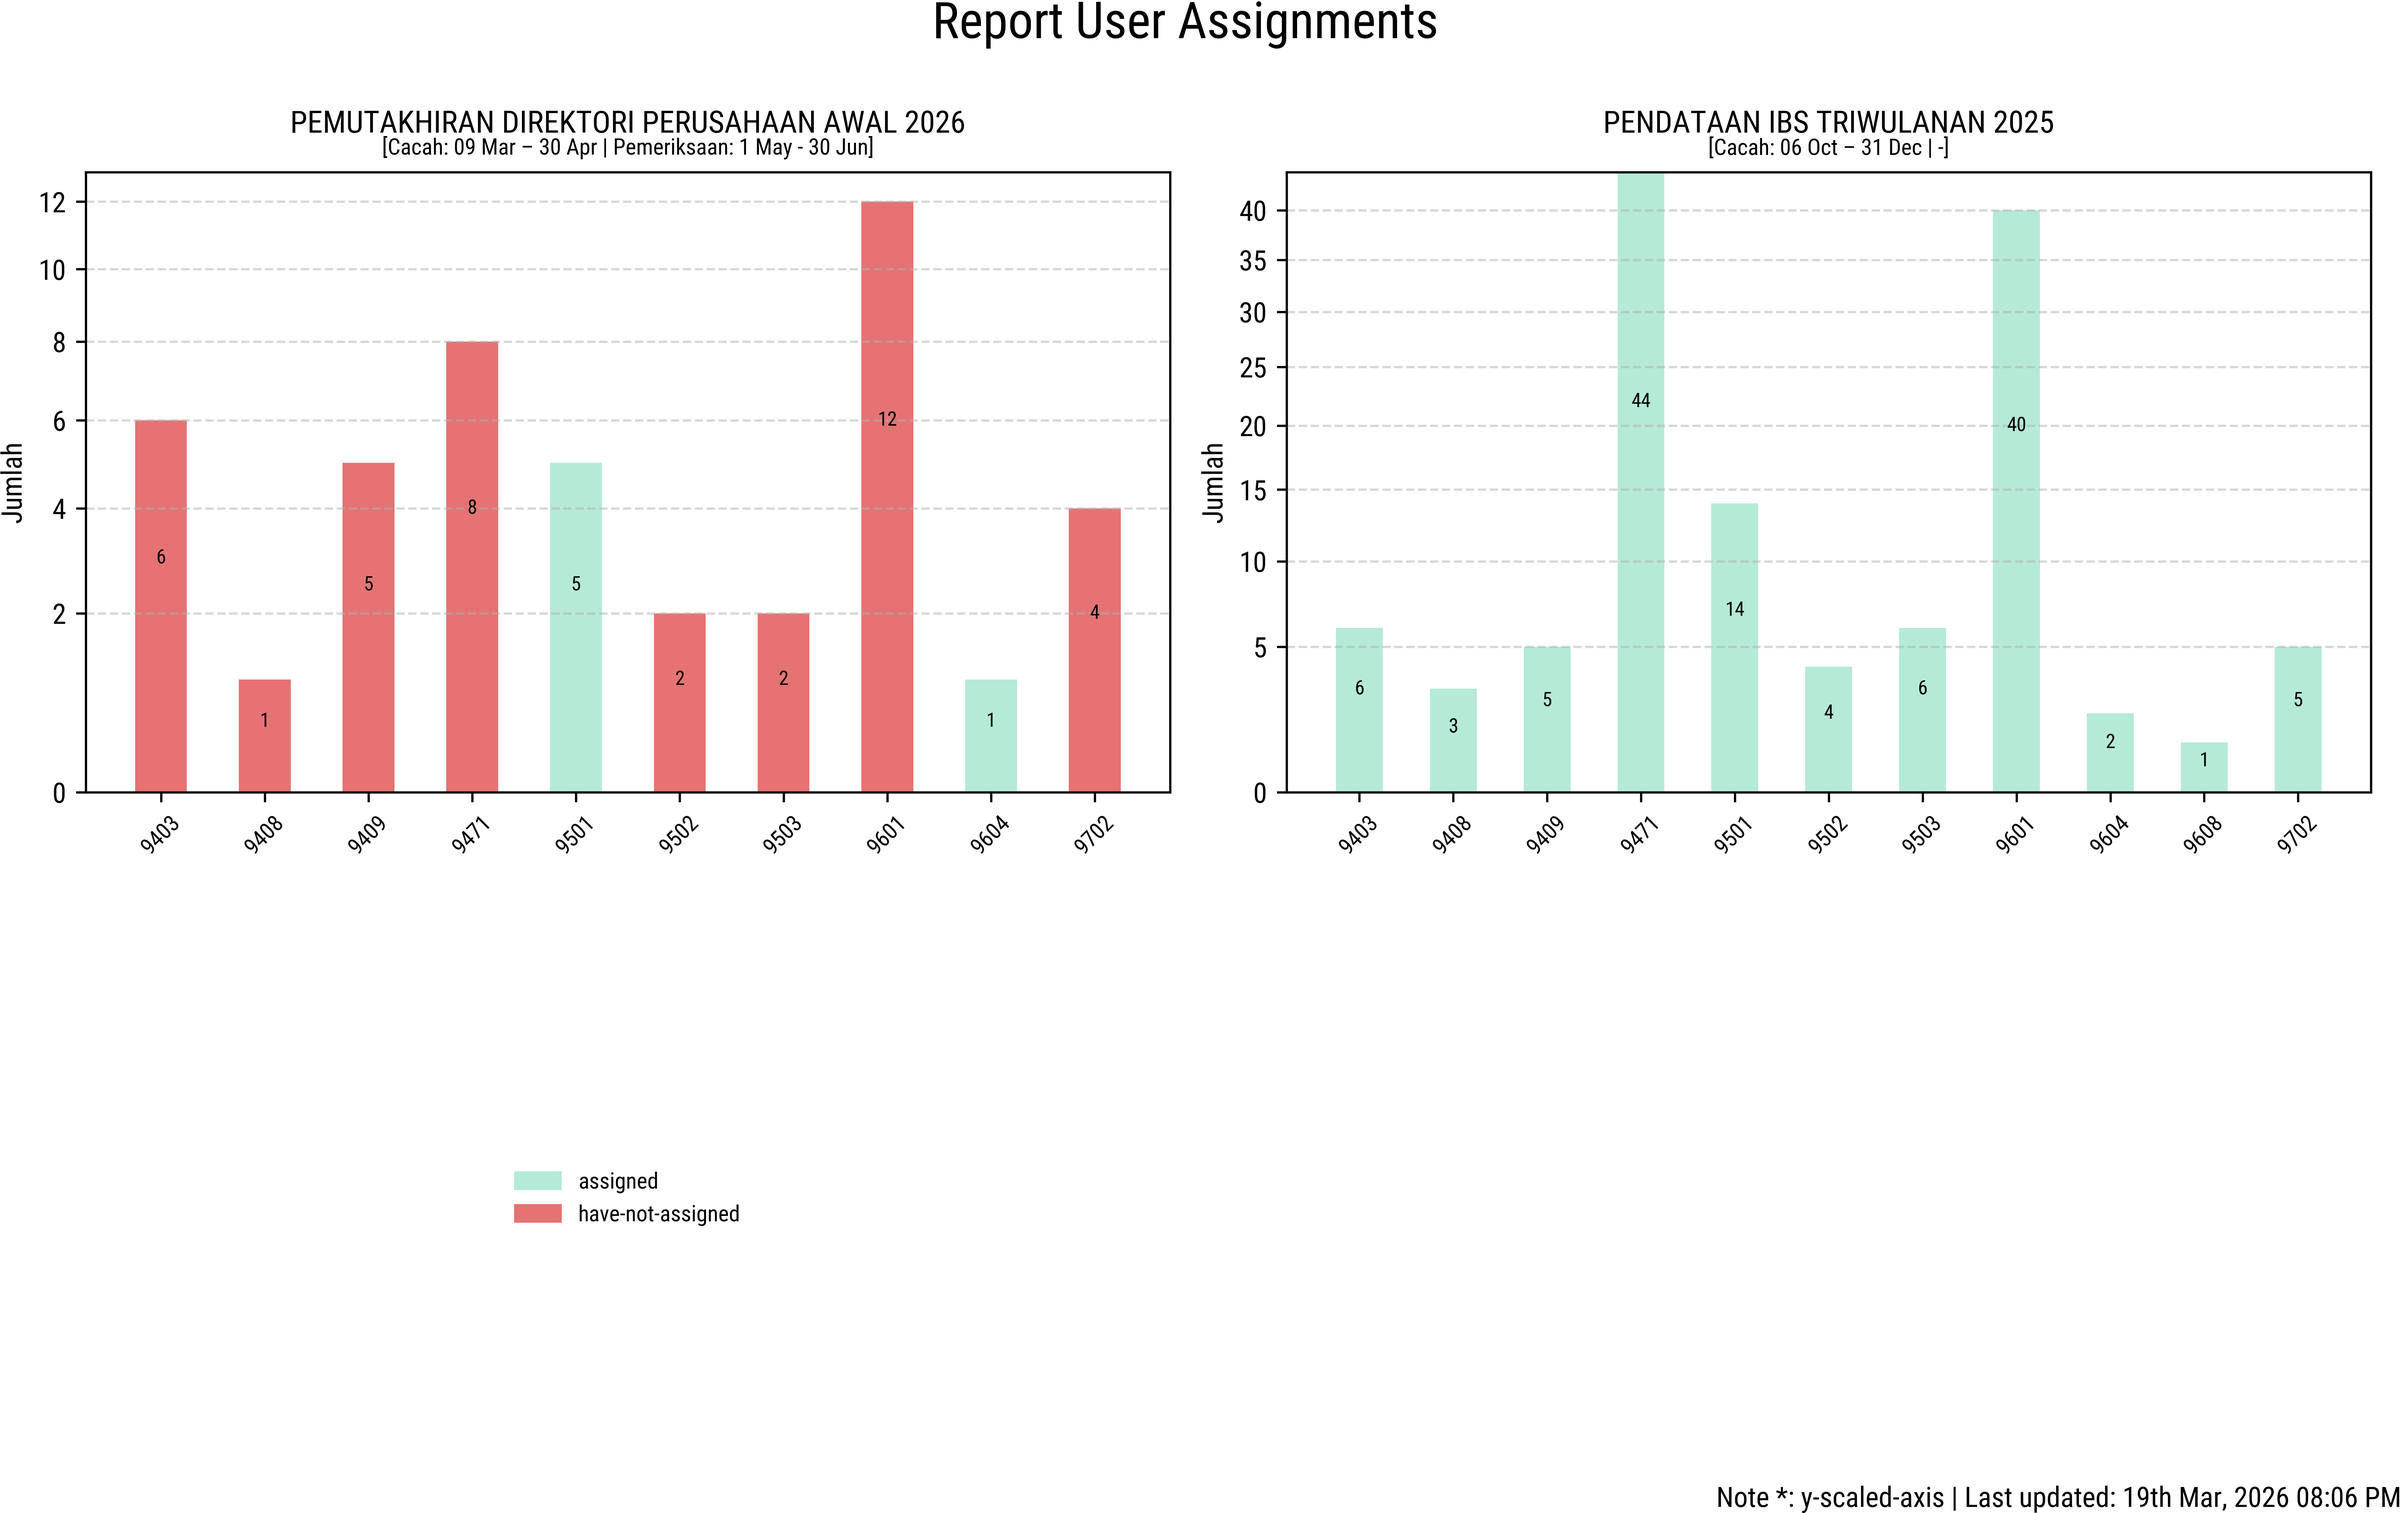
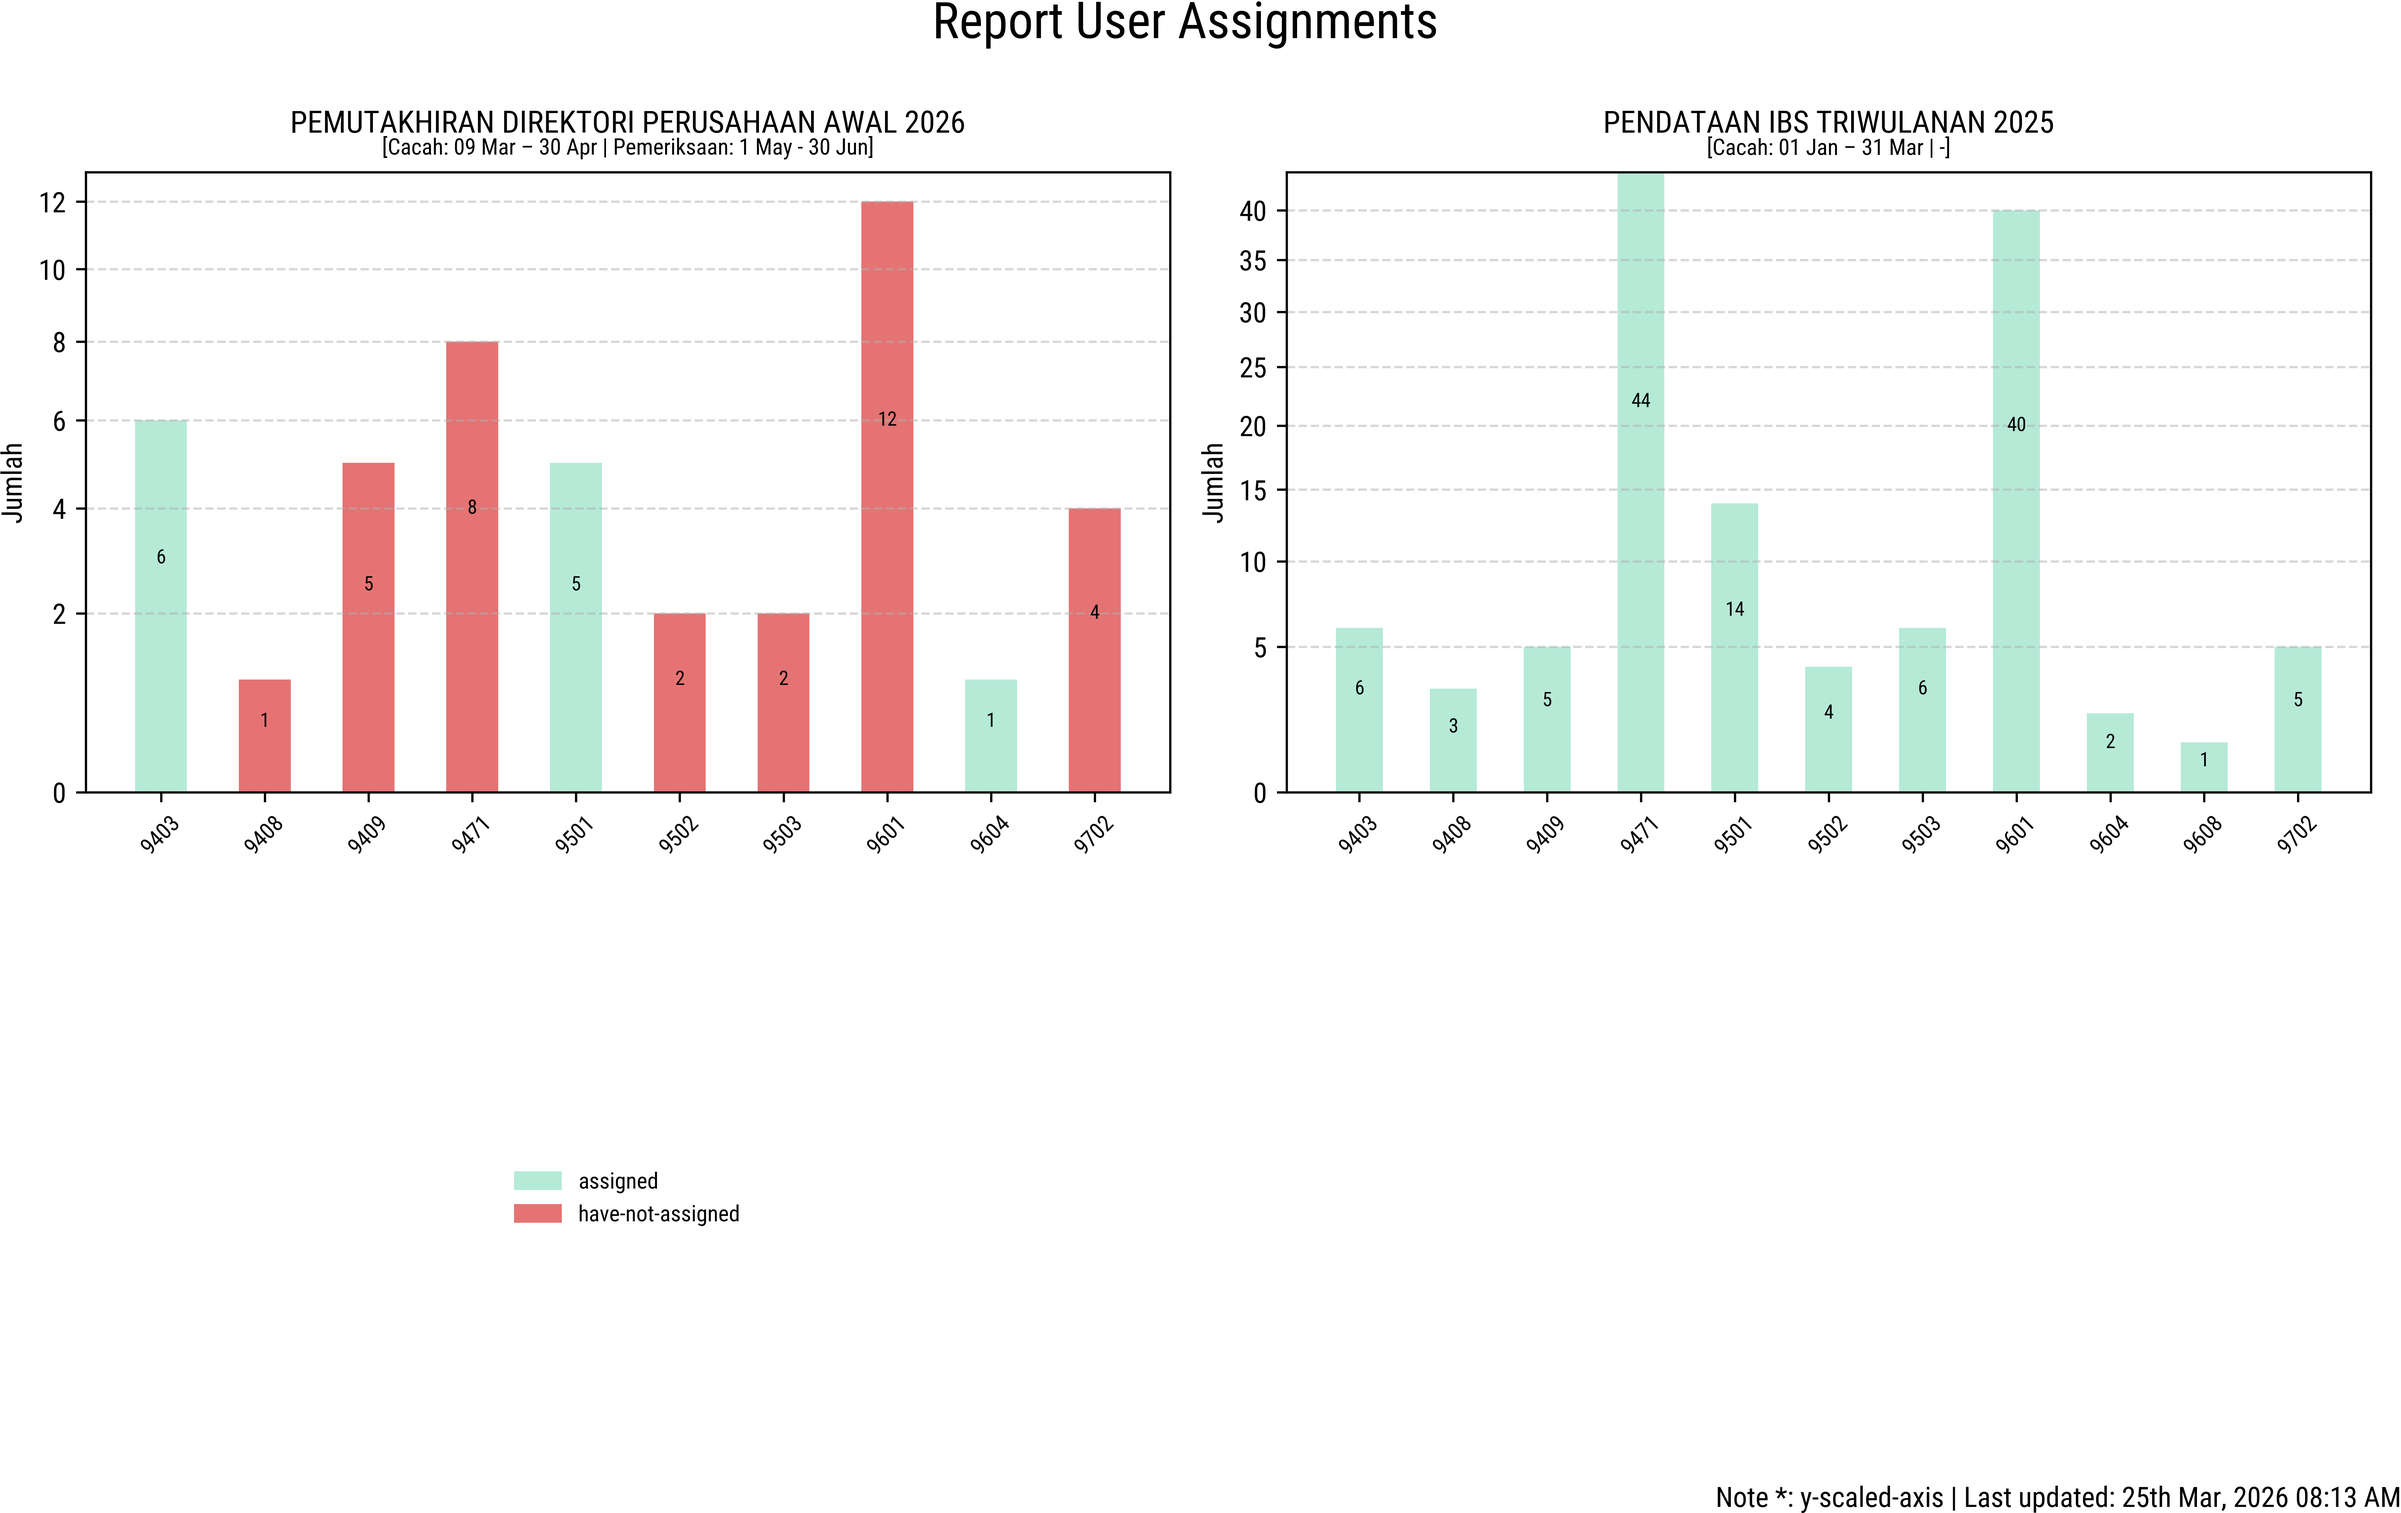
change subplot title: Cacah -> Pencacahan

diff --git a/plotter.py b/plotter.py
@@ -234,7 +234,7 @@ def generate_plots_2(df, survey_collection_df, prefered_status_order, option:int
             axes[i].set_title(display_title, fontsize=11, pad=14)
             axes[i].text(
                 0.5, 1.02,
-                f"[Cacah: {start} – {end} | {other_jadwal}]",
+                f"[Pencacahan: {start} – {end} {other_jadwal}]",
                 transform=axes[i].transAxes,
                 ha='center', va='bottom',
                 fontsize=8
